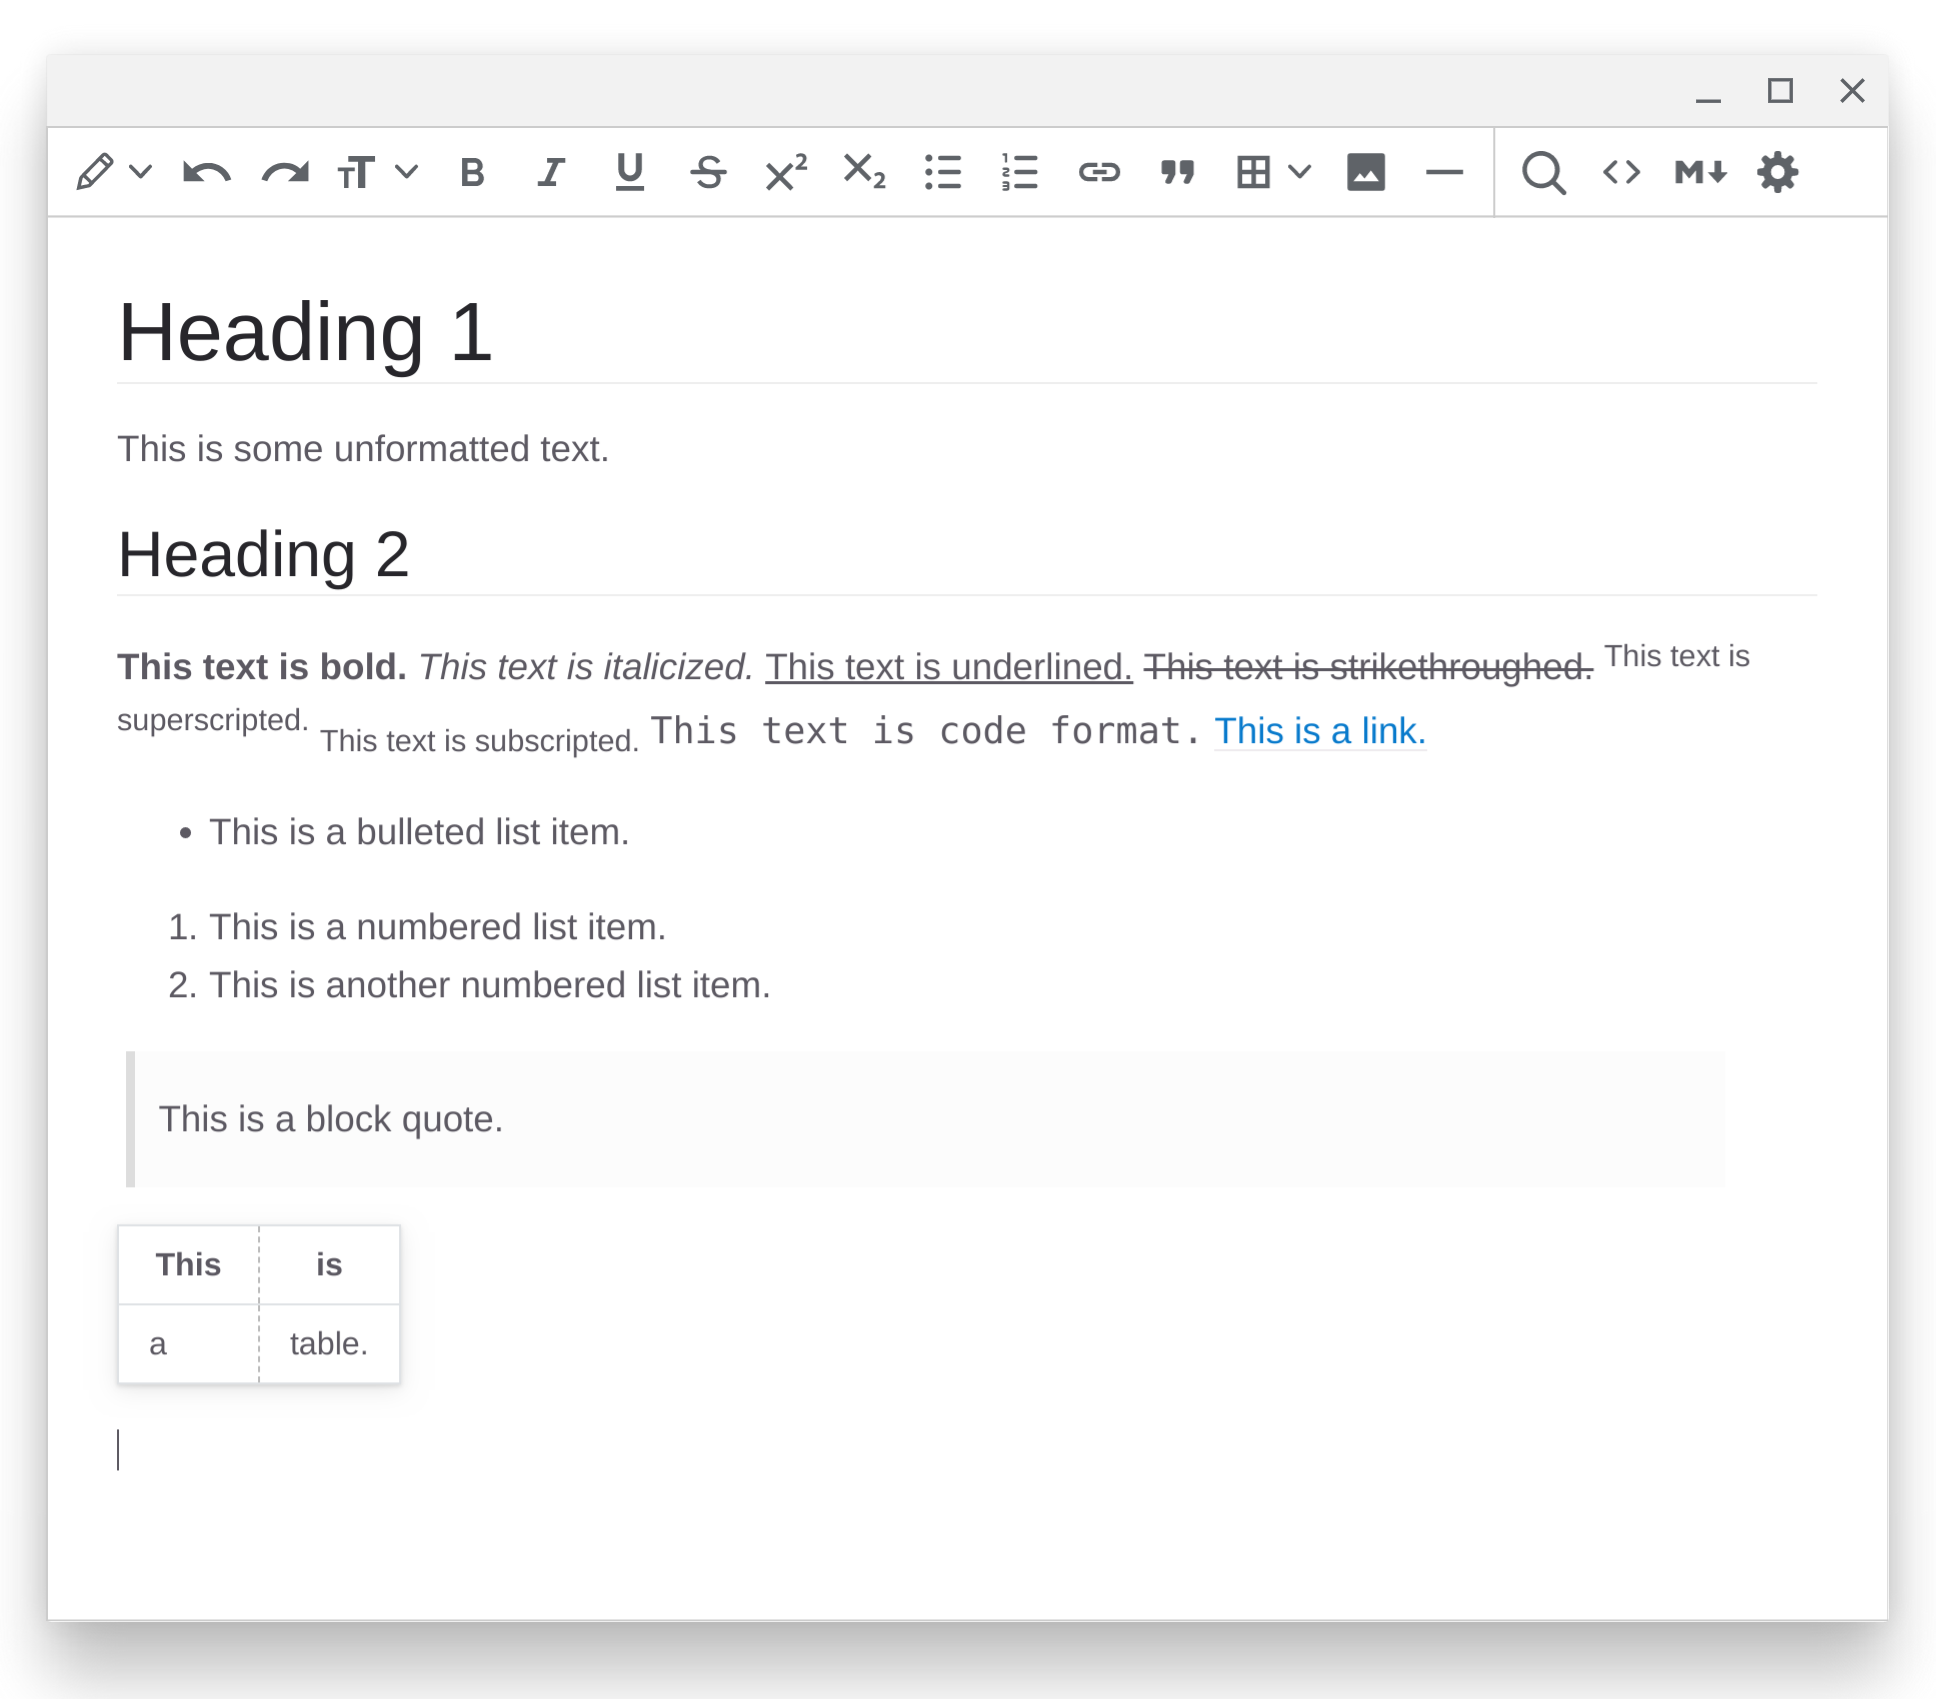
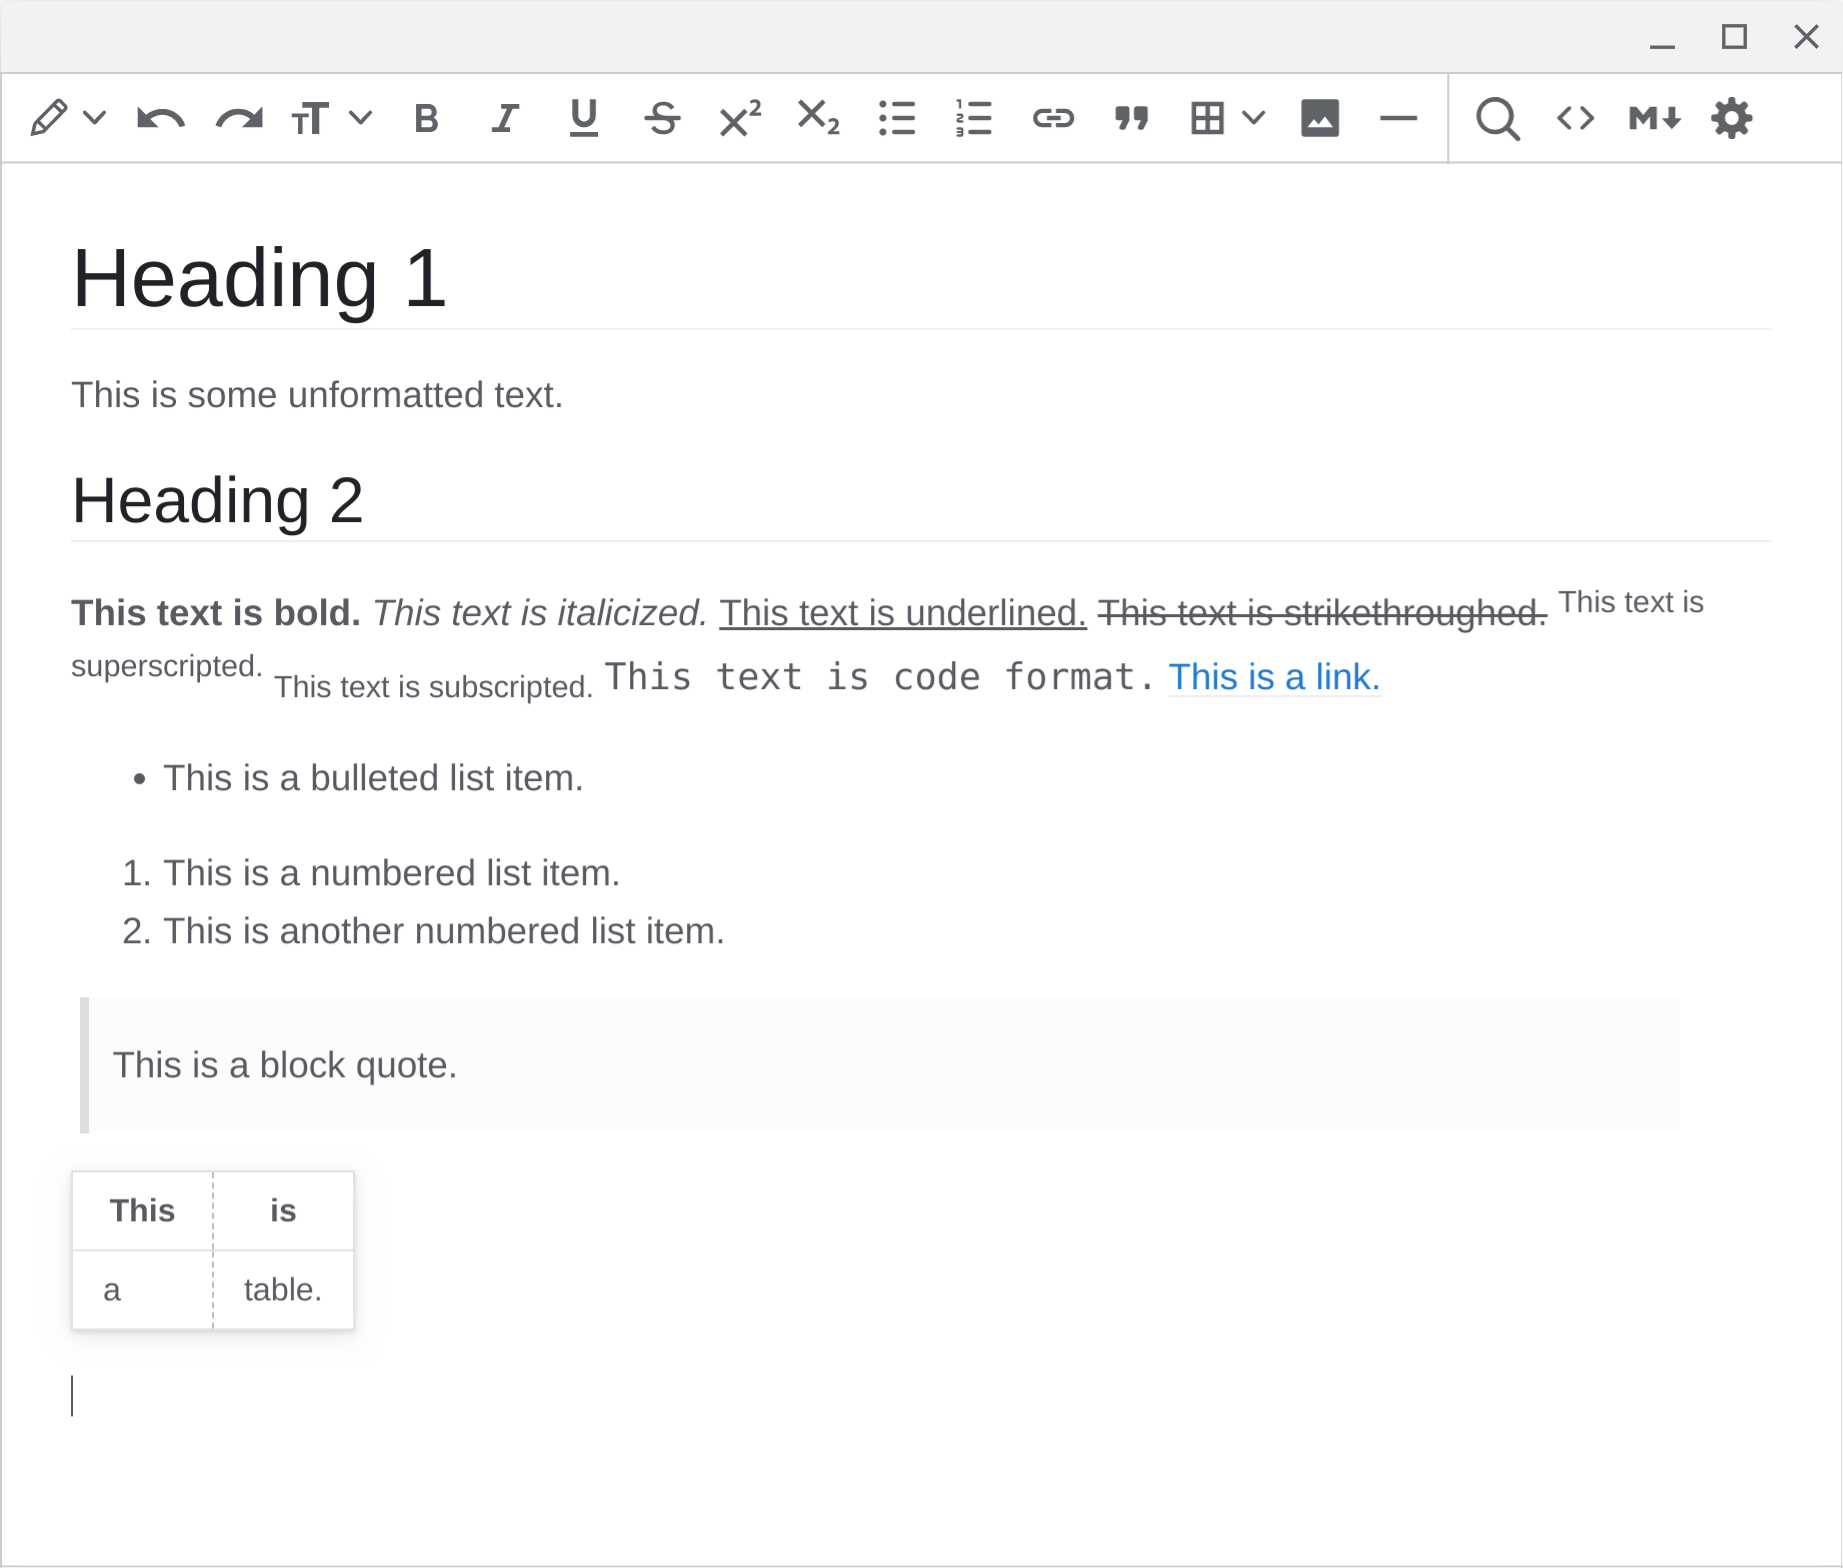
.

diff --git a/README.md b/README.md
@@ -15,6 +15,8 @@ Forked and expanded on from [Moliman/tiny-electron](https://github.com/Moliman/t
 * Find and replace functionality in the rich-text view.
 
 ## Screenshot
+<img src="screenshot.png" style="box-shadow: 8px 8px 8px 8px rgba(0, 0, 0, 0.2), 10px 10px 10px 10px rgba(0, 0, 0, 0.19);">
+
 [![](screenshot.png)](screenshot.png?raw=true)
 
 ## Installation
